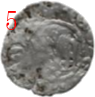
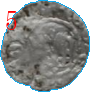
symmetry in progress

diff --git a/Scripts/extract_imagine.py b/Scripts/extract_imagine.py
@@ -14,6 +14,7 @@ epsilonper = 1
 epsilonbright = 0.005
 epsilondark = 0.005
 symmetrystep = 0.017
+symmetrythresh = 0.2
 
 ##########################################################################################################
 
@@ -206,13 +207,32 @@ for i in range(len(contours)):
     objectprops[i]['perimeter'] = objectperimeters[i]
     objectprops[i]['brightness'] = intensities[i]/nrpixels[i]
 
-# sort objects in decreasing order of areas
+# centroid calculation
+
+for i in range(rows):
+    for j in range(cols):
+        ind = obtinere_index(indexedimg, i, j)
+        if ind >= 0:
+            objectcentroidcol[ind] += j
+            objectcentroidrow[ind] += i
+
+for i in range(len(contours)):
+    objectcentroidcol[i] /= nrpixels[i]
+    objectcentroidrow[i] /= nrpixels[i]
+    objectprops[i]['centroidrow'] = objectcentroidrow[i]
+    objectprops[i]['centroidcol'] = objectcentroidcol[i]
+    
+
+# sort objects in decreasing order of areas AND calculate symmetry
 
 image_number=0
 blanc = np.zeros((1, 1, 3), np.uint8)
 cv.imwrite("Assets\\Objects\\rez.png", blanc)
 
 for c in range(len(contours)):
+
+    # creare imagine cu numar
+
     x, y, w, h = cv.boundingRect(contours[c])
     element = alphaimg[y:y+h, x:x+w]
 
@@ -232,36 +252,63 @@ for c in range(len(contours)):
 
     objectprops[c]['filename'] = "Assets\\Objects\\element_{}.png".format(image_number)
 
-    binaryelement = invbinaryimg[y:y+h, x:x+w]
+    # calculare simetrie
 
-    centroid = (objectcentroidrow[i]-y, objectcentroidcol[i]-x)
+    binaryelement = invbinaryimg[y:y+h, x:x+w]
+    for i in range(h):
+        for j in range(w):
+            ind = obtinere_index(indexedimg, y+i, x+j)
+            if ind is not c:
+                binaryelement[i][j] = 0
+
+    centroid = (objectcentroidrow[c]-y, objectcentroidcol[c]-x)
+    partialsumrow = [[0 for j in range(cols)] for i in range(rows)]
+    partialsumcol = [[0 for j in range(cols)] for i in range(rows)]
+
+    for i in range(h):
+        j = 0
+        if binaryelement[i][j] == 255:
+            partialsumrow[i][j] = 1
+        for j in range(1, w):
+            partialsumrow[i][j] = partialsumrow[i][j-1]
+            if binaryelement[i][j] == 255:
+                partialsumrow[i][j] += 1
+    
+    for j in range(w):
+        i = 0
+        if binaryelement[i][j] == 255:
+            partialsumcol[i][j] = 1
+        for i in range(1, h):
+            partialsumcol[i][j] = partialsumcol[i-1][j]
+            if binaryelement[i][j] == 255:
+                partialsumcol[i][j] += 1
+
     theta = 0
     while theta < math.pi:
-        point = (centroid[0] + math.cos(theta), centroid[1] + math.sin(theta))
-        symmetryimg = invbinaryimg.copy()
-        cv.line(symmetryimg, centroid, point, (127, 127, 127), thickness=1, shift=15)
+        m = math.tan(theta)
+        # y = m * (x - centroid[1]) + centroid[0]
+        area1 = 0
+        area2 = 0
+        for j in range(w):
+            i = int(m * (j - centroid[1]) + centroid[0])
+            if i >= 0 and i < h:
+                if i > 0:
+                    area1 += partialsumcol[i-1][j]
+                if i < h-1:
+                    area2 += (partialsumcol[h-1][j] - partialsumcol[i][j])
+            elif i < 0:
+                area2 += partialsumcol[h-1][j]
+            else:
+                area1 += partialsumcol[h-1][j]
+        if area1+area2 == 0 or abs(area1-area2)-10 / (area1+area2) < symmetrythresh
         theta += symmetrystep
+    
+    # concatenare
 
     adaugare_numar(im, image_number)
     image_number += 1
     rez = Image.open("Assets\\Objects\\rez.png")
     concatenare_orizontala(rez, im, (bgcolor[2],bgcolor[1],bgcolor[0])).save("Assets\\Objects\\rez.png")
-
-# get centroid
-
-for i in range(rows):
-    for j in range(cols):
-        ind = obtinere_index(indexedimg, i, j)
-        if ind >= 0:
-            objectcentroidcol[ind] += j
-            objectcentroidrow[ind] += i
-
-for i in range(len(contours)):
-    objectcentroidcol[i] /= nrpixels[i]
-    objectcentroidrow[i] /= nrpixels[i]
-    objectprops[i]['centroidrow'] = objectcentroidrow[i]
-    objectprops[i]['centroidcol'] = objectcentroidcol[i]
-    
 
 # print object properties
 
